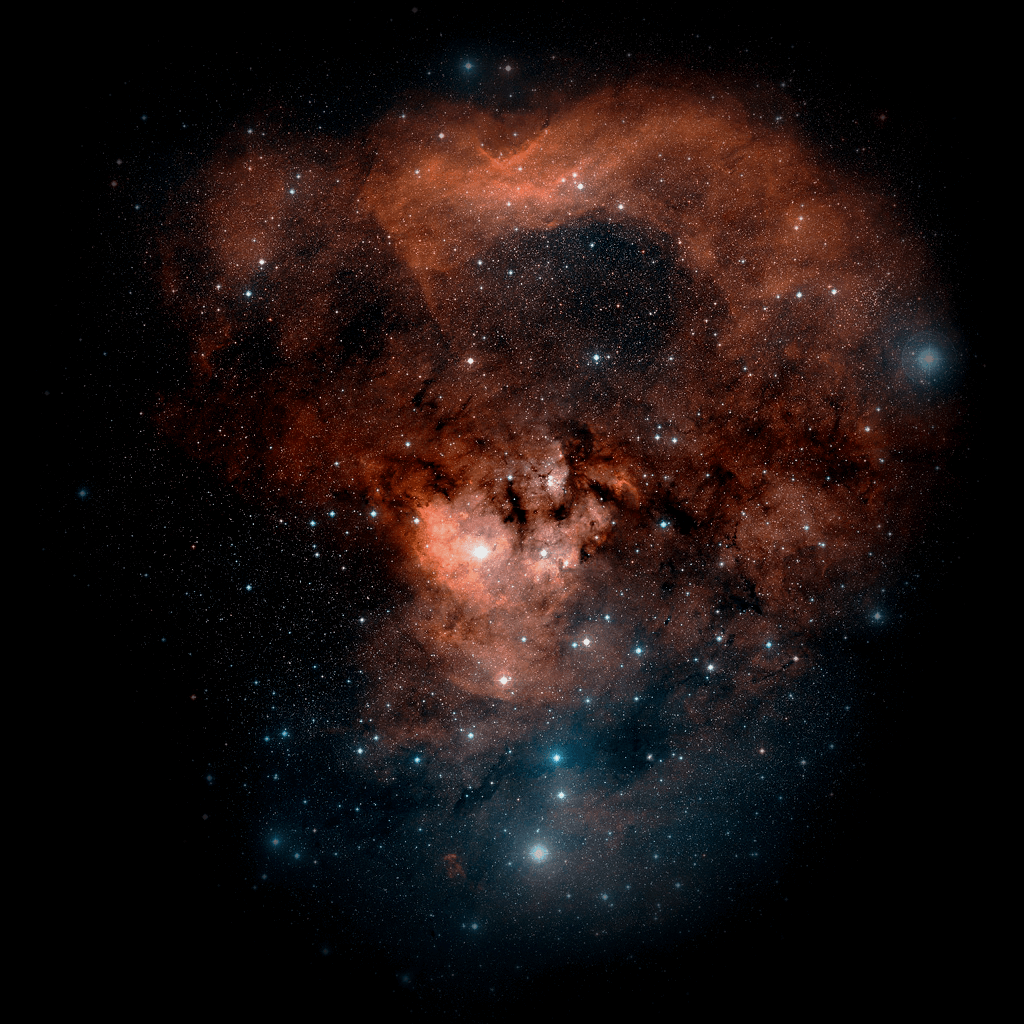
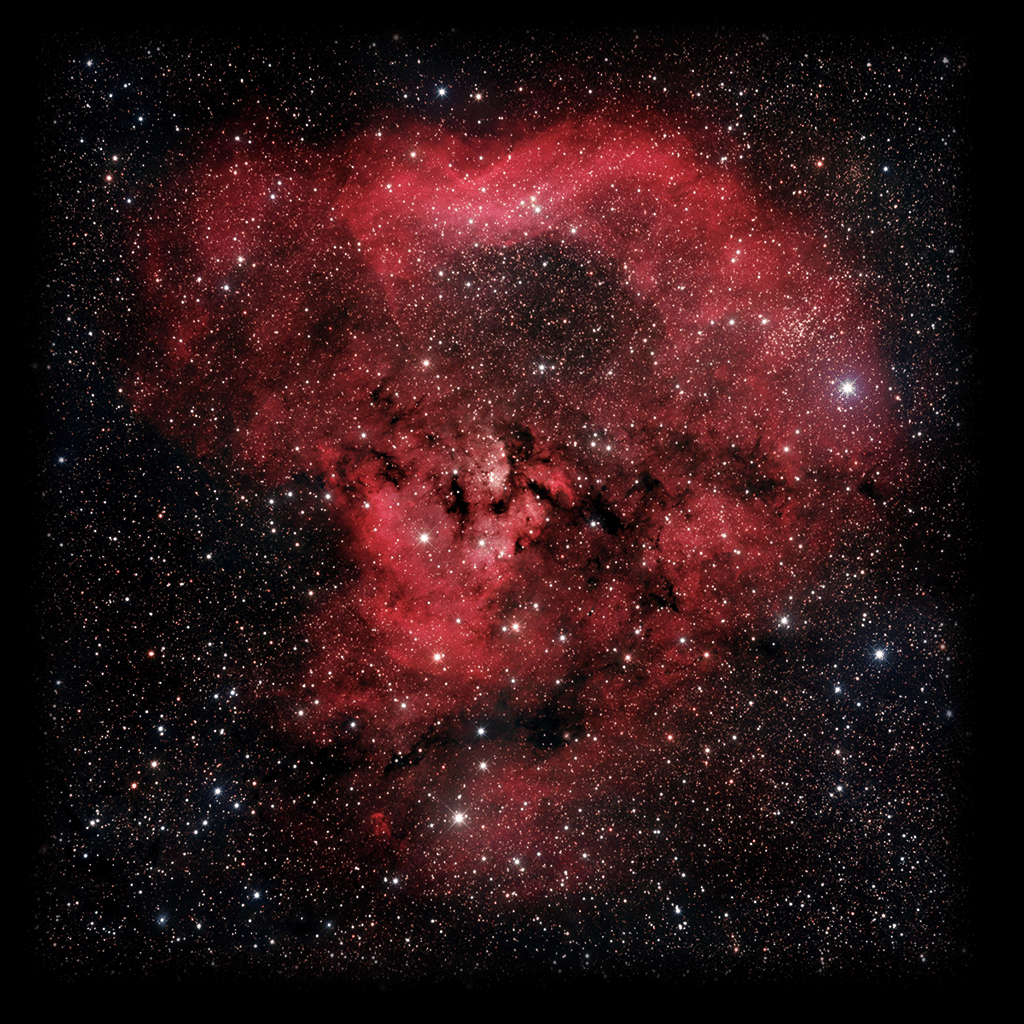
Update three DSO textures. (#1271)

diff --git a/CREDITS.md b/CREDITS.md
@@ -346,7 +346,7 @@
 	4.14 The folder icon derived from the Tango Desktop Project, used under
 	     the terms of the Creative Commons Attribution Share-Alike
 	     license.
-	4.15 Images of NGC6543, NGC7317, NGC7319, NGC7320
+	4.15 Images of NGC7317, NGC7319, NGC7320
 	     from Andrey Kuznetsov, Kepler Observatory
 	     http://kepler-observatorium.ru
 	     License: Creative Commons Attribution 3.0 Unported
@@ -443,14 +443,14 @@
 	4.41 Images of M61, M64, M65, M66, M91, M99, M100, NGC613, NGC772, NGC918, NGC1042, NGC1360, NGC1398,
 	     NGC1501, NGC1535, NGC1555, NGC2158, NGC2282, NGC2346, NGC2362, NGC2440, NGC2683, NGC2775, NGC3132,
 	     NGC3242, NGC3750, NGC4170, NGC4216, NGC4361, NGC4395, NGC4414,,NGC4450, NGC4676, NGC4725,
-	     NGC5216, NGC5248, NGC5426, NGC5466, NGC6302, NGC6522, NGC6563, NGC6781, NGC6894, NGC7000,
-	     NGC7354, SH2-136, UGC3697, Abell31, Abell33, Abell39, Cassiopeia A, LBN438, Wild's Triplet
+	     NGC5216, NGC5248, NGC5426, NGC5466, NGC6302, NGC6522, NGC6543, NGC6563, NGC6781, NGC6894, NGC7000,
+	     NGC7354, NGC7822, SH2-136, UGC3697, Abell31, Abell33, Abell39, Cassiopeia A, LBN438, Wild's Triplet
 	     from Adam Block/Mount Lemmon SkyCenter/University of Arizona
 	     http://www.caelumobservatory.com/
 	     License: Creative Commons Attribution-Share Alike 3.0 Unported
 	4.42 Images of IC1295, NGC134, NGC92, NGC55, NGC300, NGC908, NGC936, NGC1232, NGC1313, NGC1316,
 	     NGC1792, NGC1978, NGC2207, NGC2736, NGC3199, NGC3699, NGC3766, NGC3532, NGC4945, NGC5128, NGC5189,
-	     NGC6362, NGC6537, NGC6744, NGC6752, NGC6769, NGC6822, NGC7793
+	     NGC6362, NGC6537, NGC6752, NGC6769, NGC6822, NGC7793
 	     from ESO
 	     http://eso.org/public/
 	     License: Creative Commons Attribution 4.0 International
@@ -573,9 +573,8 @@
 	     from Cristina Cellini
 	     https://commons.wikimedia.org/wiki/
 	     License: Creative Commons Attribution 4.0 International
-	4.73 Images of NGC7822
-	     from Davide De Martin & the ESA/ESO/NASA Photoshop FITS Liberator
-	     https://www.spacetelescope.org/
+	4.73 Images of NGC6744
+	     from Zhuokai Liu, Jiang Yuhang
 	     License: Creative Commons Attribution 4.0 International 
 	4.74 Images of NGC2170, SH2-1, SH2-240
 	     from Rogelio Bernal Andreo
